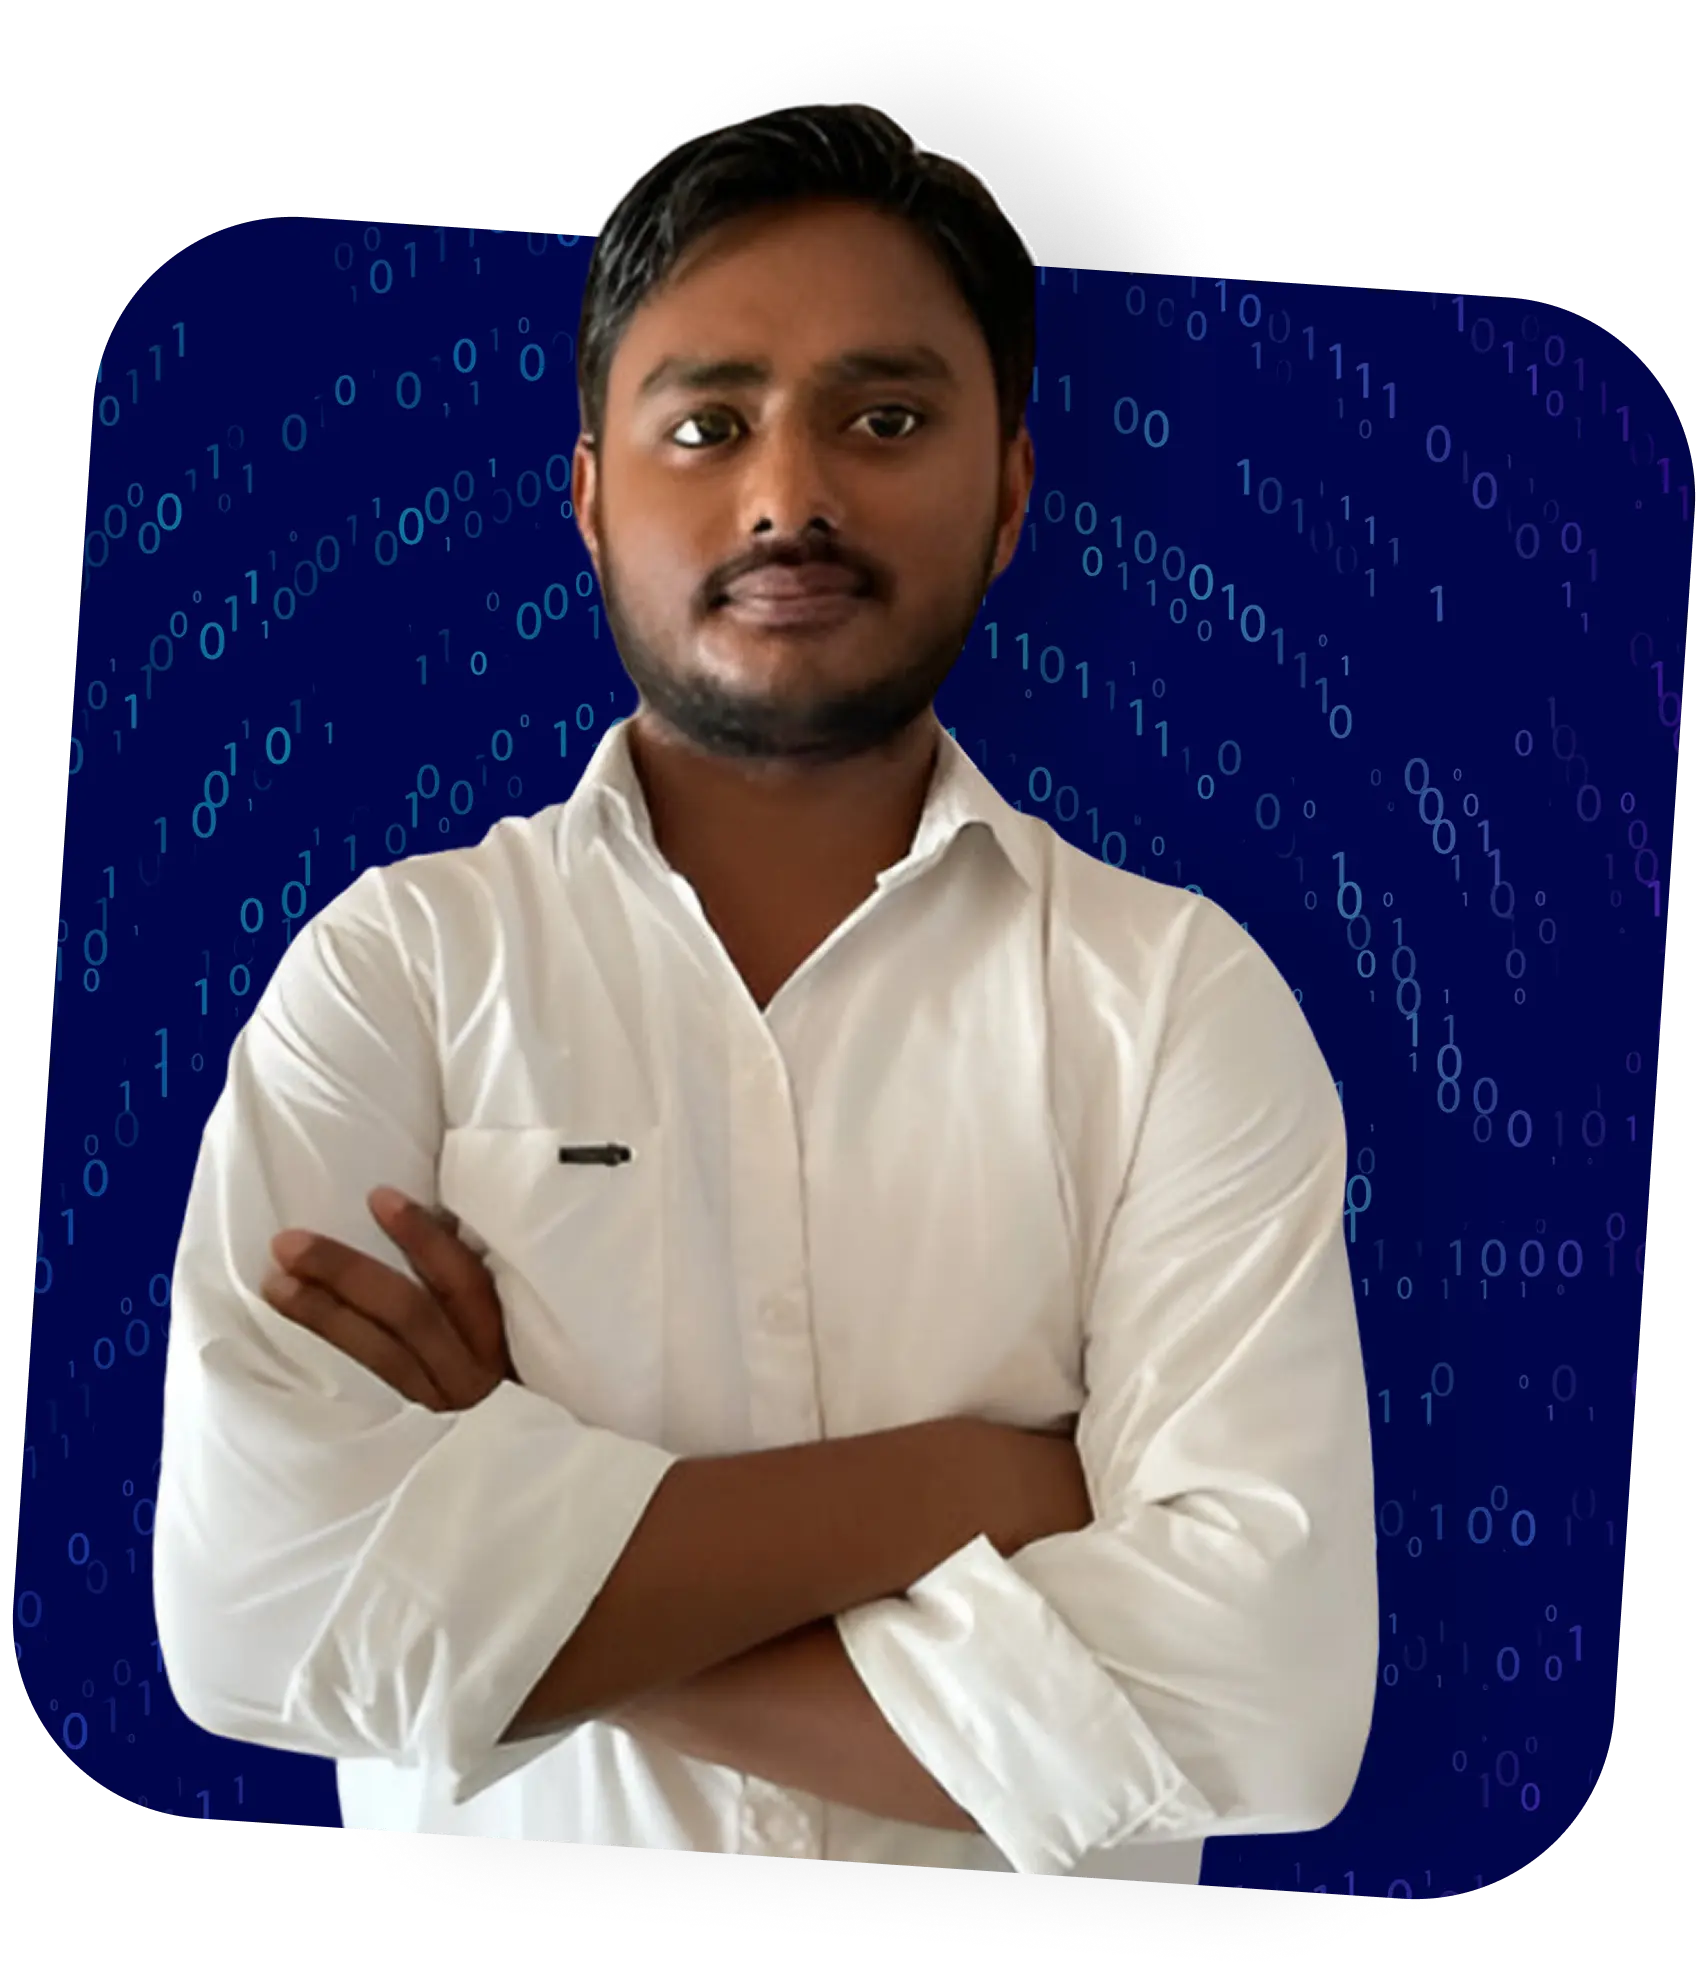
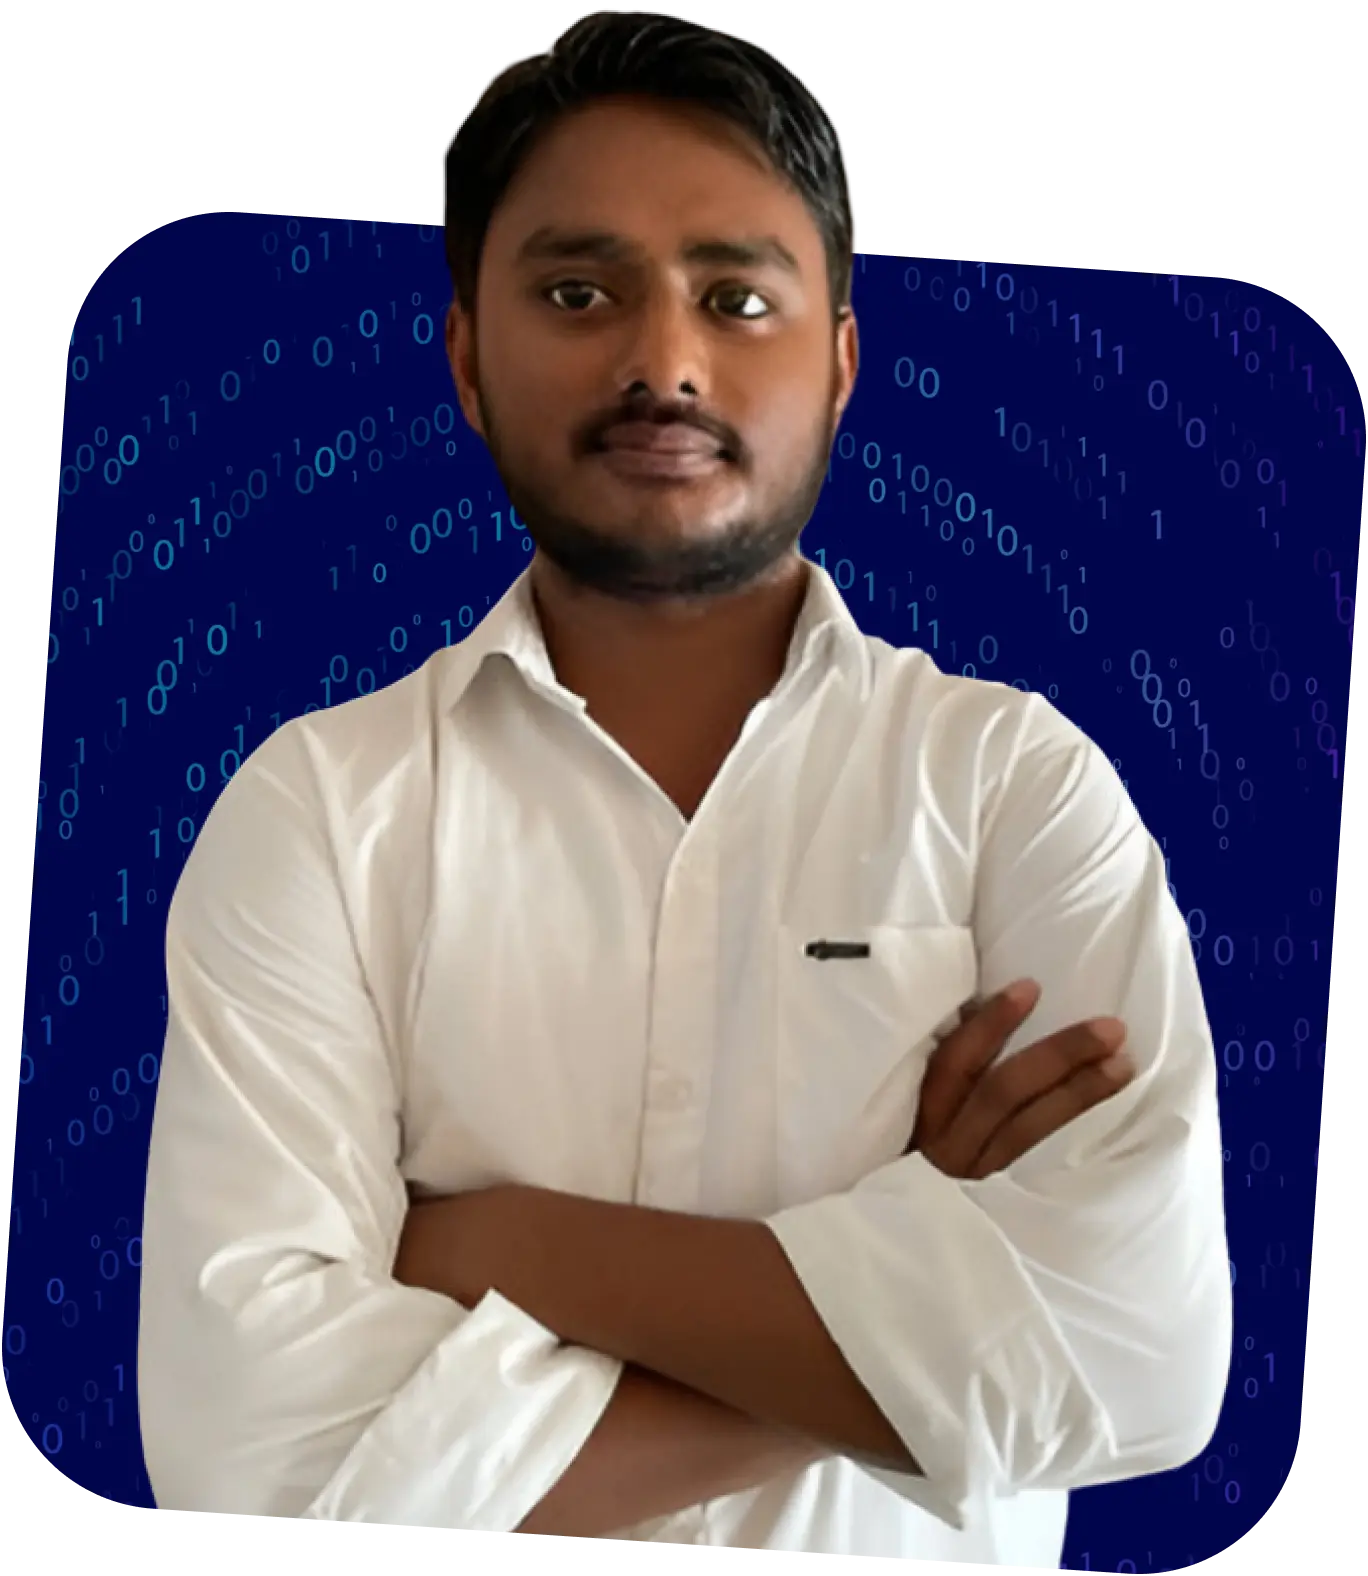
I have replaced the images and add animation on hero section image

diff --git a/index.html b/index.html
@@ -46,9 +46,10 @@
             properly and are easy to manage.
           </p>
           <div class="social-media-icons">
-            <a href="#" target="_blank"><img src="./assets/images/icons/GitHub.svg" /></a>
-            <a href="#" target="_blank"><img src="./assets/images/icons/Linkedin.svg" /></a>
-            <a href="#" target="_blank"><img src="./assets/images/icons/X.svg" /></a>
+            <a href="https://github.com/Apple197" target="_blank"><img src="./assets/images/icons/GitHub.svg" /></a>
+            <a href="https://www.linkedin.com/in/nazrul-hasan/" target="_blank"><img
+                src="./assets/images/icons/Linkedin.svg" /></a>
+            <a href="https://x.com/Nazrul_Hasan1" target="_blank"><img src="./assets/images/icons/X.svg" /></a>
           </div>
           <a href="#" download="#" id="primary-button">Donwload CV</a>
         </div>
@@ -316,6 +317,9 @@
     </section>
 
     <!-- Contact Form Section Start's Here -->
+    <section class="contact-form-section container">
+
+    </section>
   </main>
 
   <footer></footer>

diff --git a/assets/style.css b/assets/style.css
@@ -187,6 +187,24 @@ p {
   max-width: 34.375rem;
   width: 100%;
   height: auto;
+  filter: drop-shadow(0 0 0 rgba(93, 255, 134, 0.75));
+  animation: pulse 1.8s infinite ease-out;
+}
+
+.hero-profile img:hover {
+  animation: none;
+}
+
+@keyframes pulse {
+  0% {
+    filter: drop-shadow(0 0 0 rgba(93, 255, 134, 0.75));
+  }
+  70% {
+    filter: drop-shadow(0 0 75px rgba(93, 255, 134, 0));
+  }
+  100% {
+    filter: drop-shadow(0 0 0 rgba(93, 255, 134, 0));
+  }
 }
 
 .hero-content {
